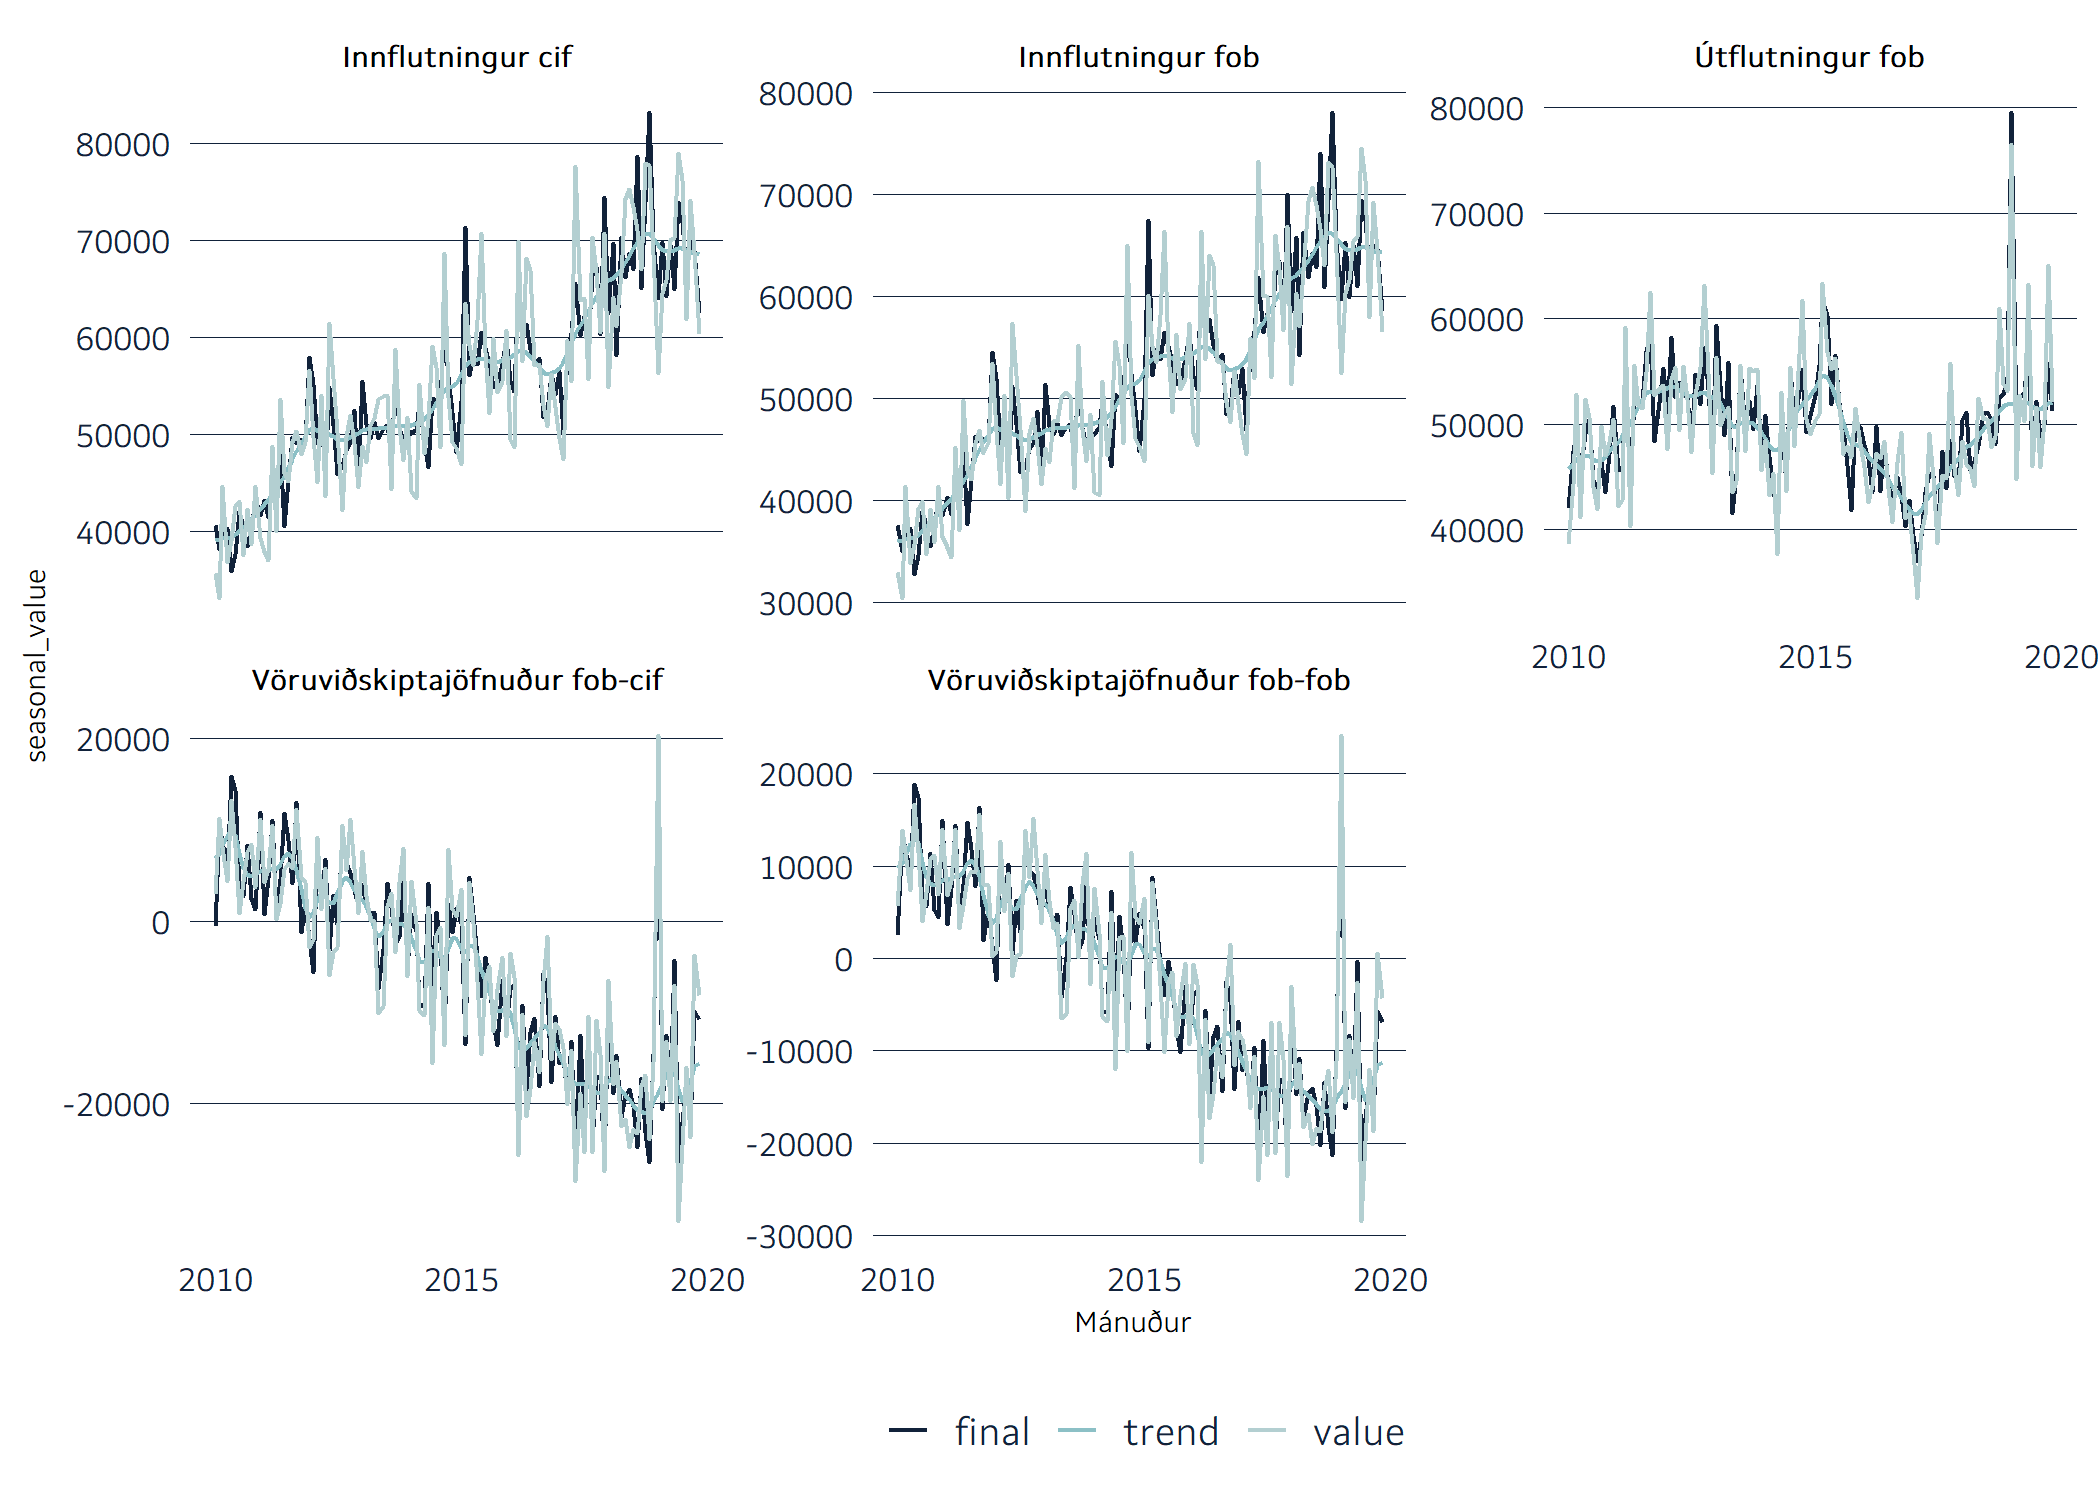
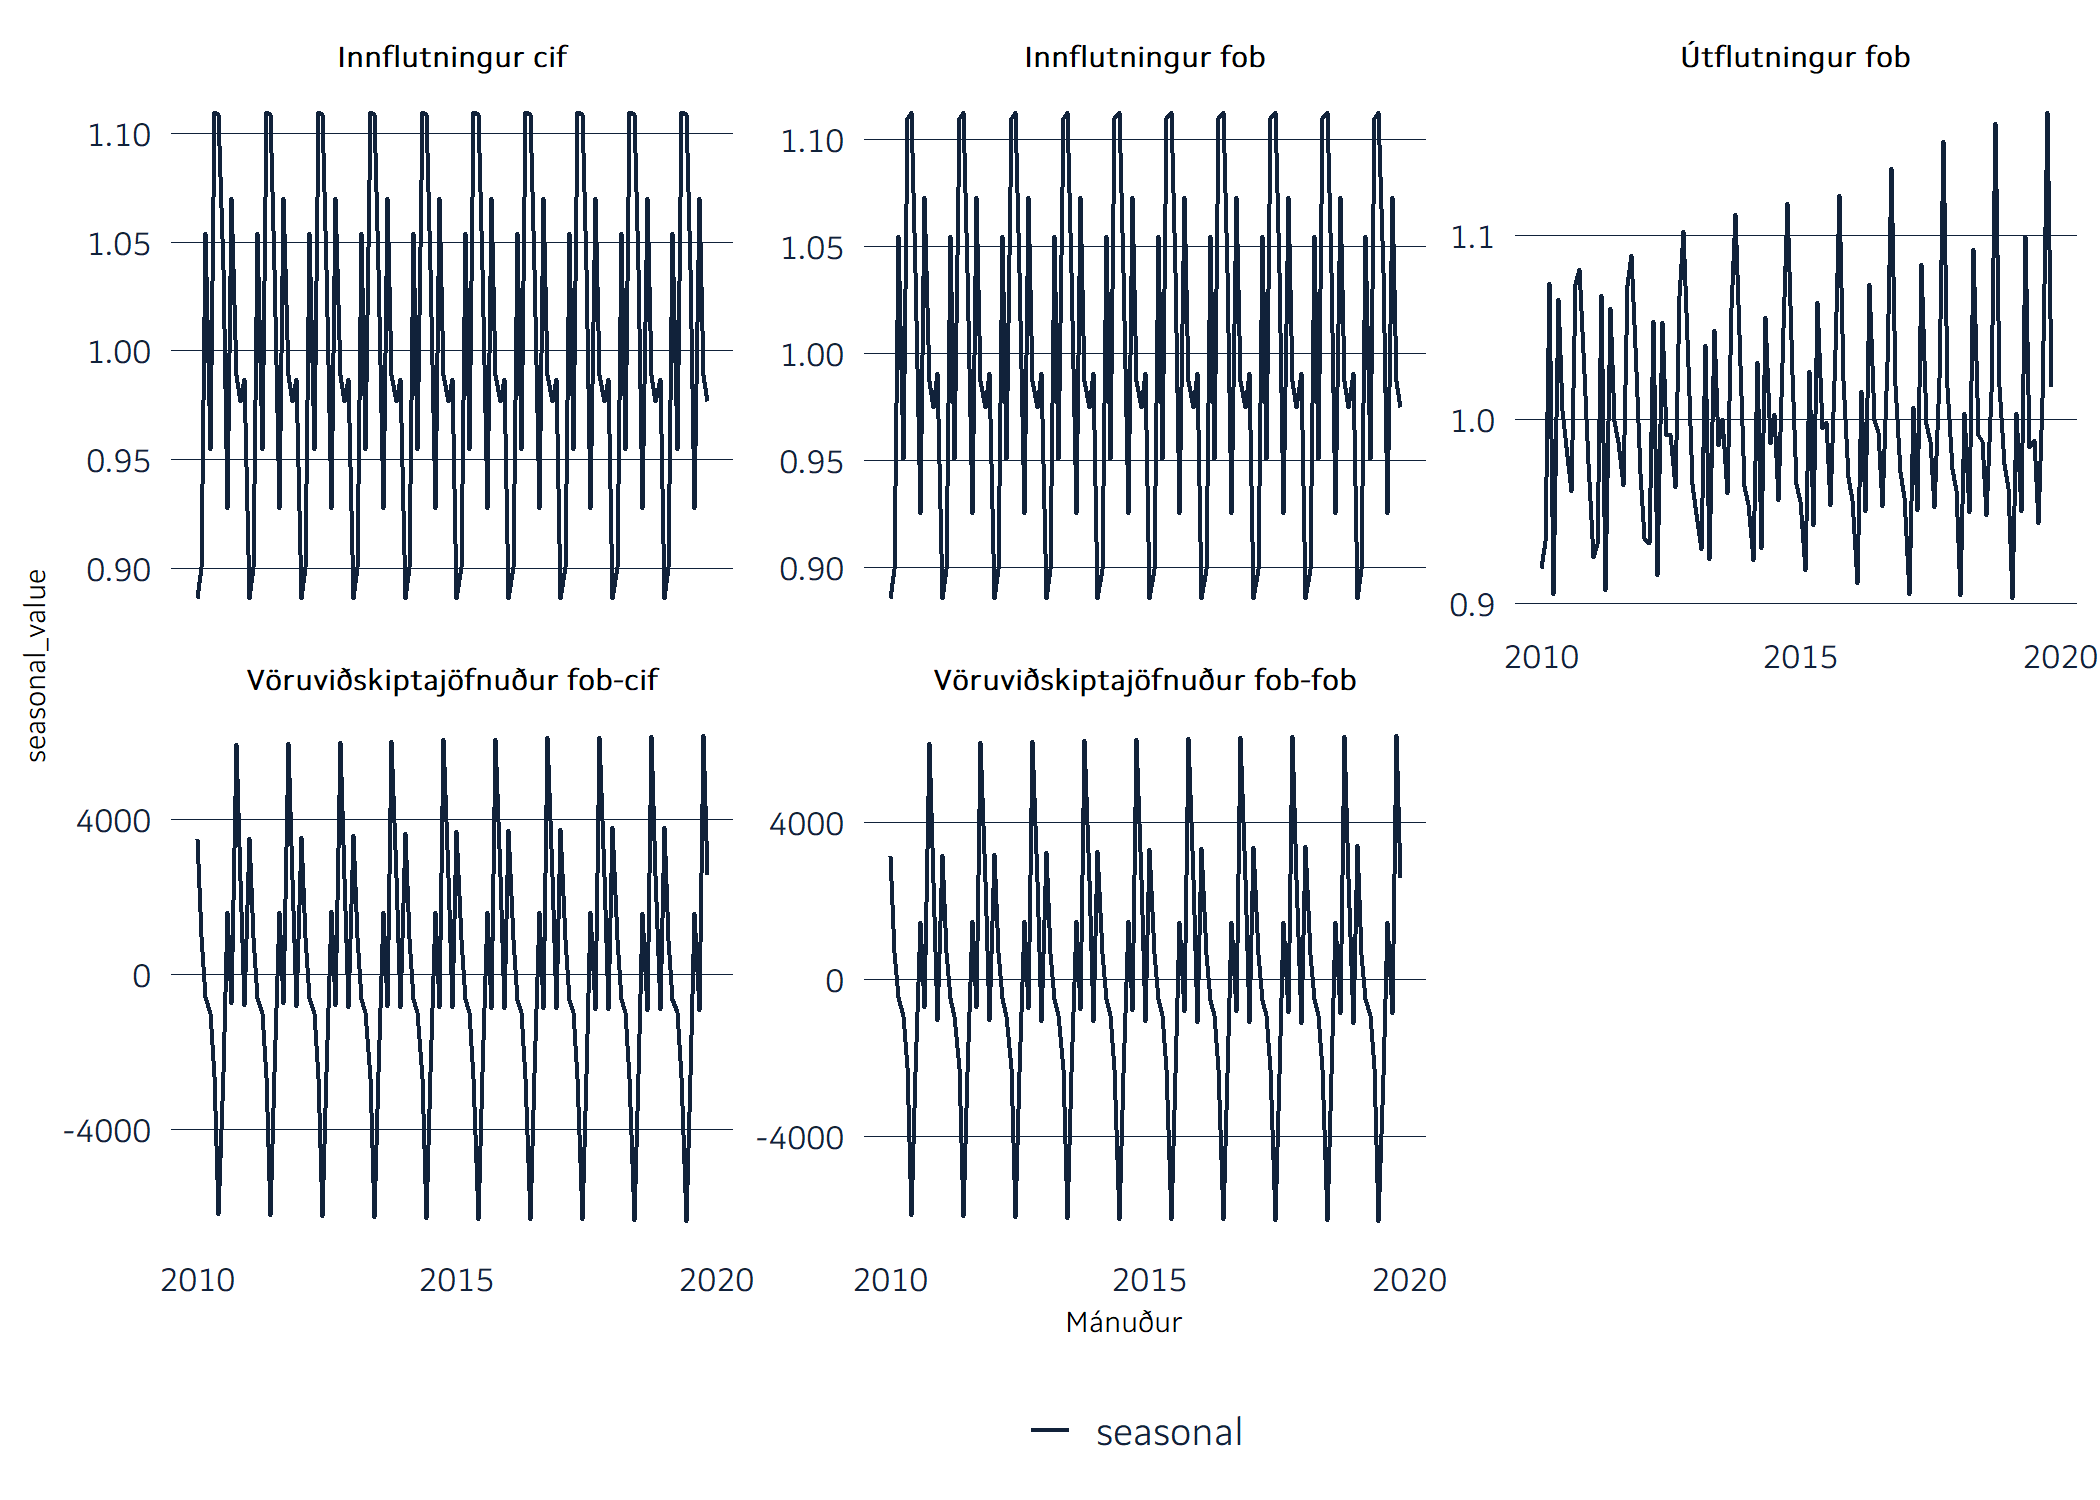
minor changes in readme

diff --git a/README.md b/README.md
@@ -280,7 +280,7 @@ trade_seas%>%
 
 ``` r
 trade_seas%>% 
-  filter(seasonal_component %in% c("trend", "final", "value")) %>% 
+  filter(seasonal_component %in% c("seasonal")) %>% 
   ggplot(aes(Mánuður, seasonal_value, color = seasonal_component)) +
   geom_line() +
   facet_wrap(~variable, scales = "free_y")
